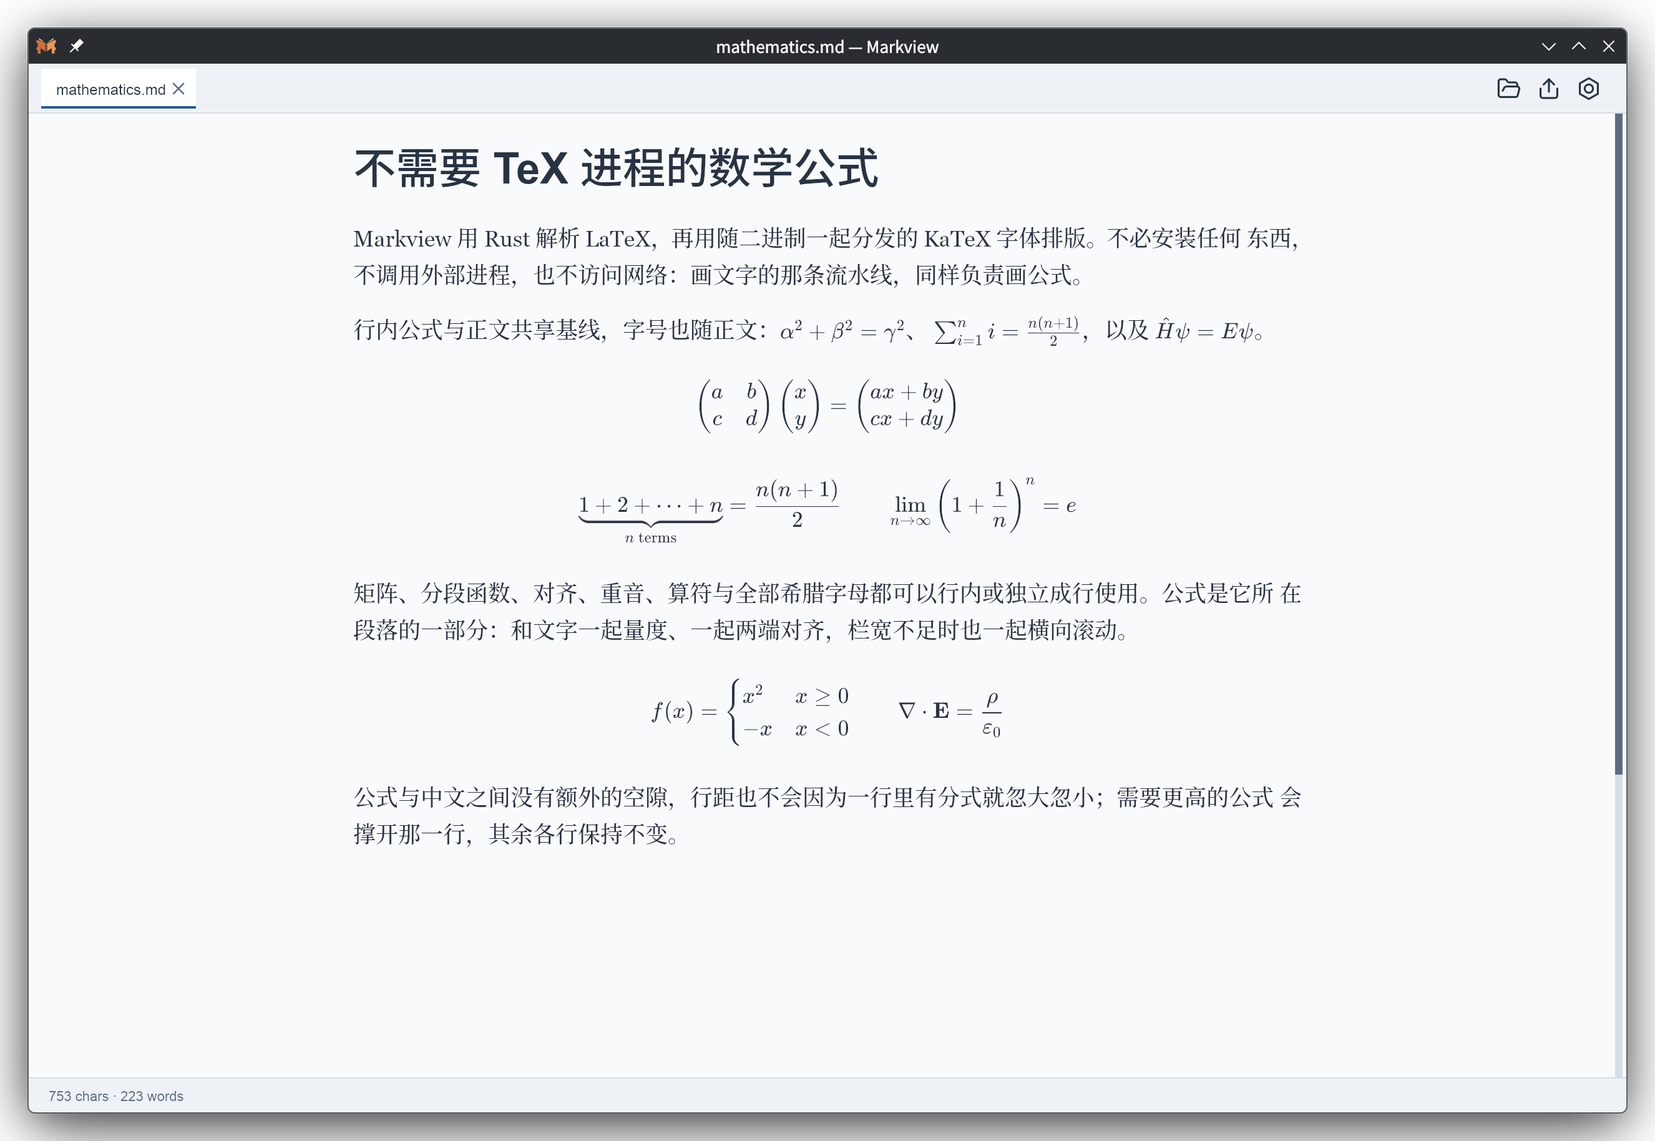
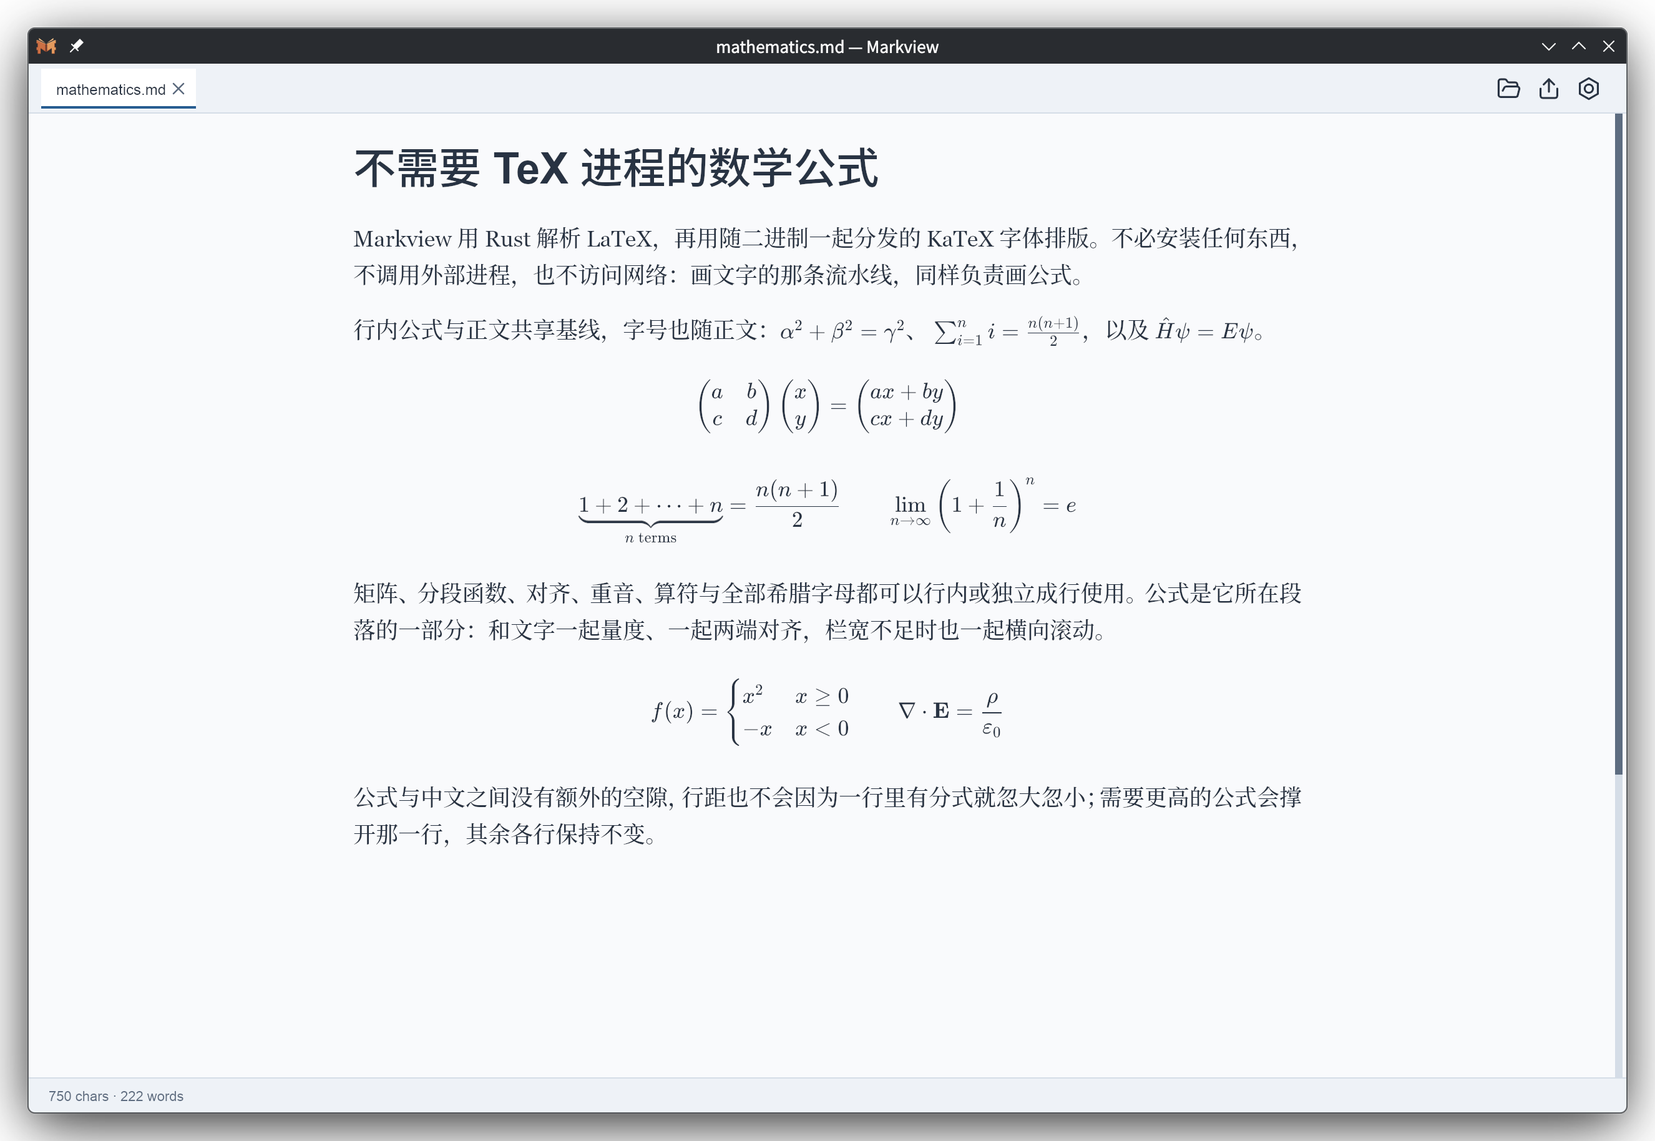
docs: remove spaces from Chinese prose

diff --git a/docs/screenshots/source/zh/typography.md b/docs/screenshots/source/zh/typography.md
@@ -1,12 +1,8 @@
 # 让中文排版回到该有的样子
 
-好的排版不该被读到，读者只应看到文字。Markview 以整段为单位求解断行：不是逐行贪心
-填充，而是权衡整段的词间距，让每一行都同样舒展。较长的西文单词会在合适的位置断字，
-中文标点则遵守各自的行首行尾规则——开括号「（《不会孤零零地落在行尾，句号、逗号和
-右括号也不会挤到下一行的开头。
+好的排版不该被读到，读者只应看到文字。Markview 以整段为单位求解断行：不是逐行贪心填充，而是权衡整段的词间距，让每一行都同样舒展。较长的西文单词会在合适的位置断字，中文标点则遵守各自的行首行尾规则——开括号「（《不会孤零零地落在行尾，句号、逗号和右括号也不会挤到下一行的开头。
 
-行内公式 $E = mc^2$ 与正文共享基线，而 $\frac{a+b}{\sqrt{x_1^2+x_2^2}}$ 只在必要时
-撑高这一行。汉字与拉丁字母之间留有自然的间隙，**粗体**与*斜体*紧贴中文也能正确闭合。
+行内公式 $E = mc^2$ 与正文共享基线，而 $\frac{a+b}{\sqrt{x_1^2+x_2^2}}$ 只在必要时撑高这一行。汉字与拉丁字母之间留有自然的间隙，**粗体**与*斜体*紧贴中文也能正确闭合。
 
 $$
 \int_{-\infty}^{\infty} e^{-x^2}\,dx = \sqrt{\pi}
@@ -14,9 +10,6 @@ $$
 
 > 版式的目的是让阅读变得轻松。读者应当忘记页面，只记住文字。
 
-标点与间隙只是细节，整段的均匀才是阅读舒适的关键。Markview 在整段范围内分配每一行的
-松紧：有的行略微收紧，有的行略微放松，右边界因此整齐，而不会出现一道忽宽忽窄的白缝。
+标点与间隙只是细节，整段的均匀才是阅读舒适的关键。Markview 在整段范围内分配每一行的松紧：有的行略微收紧，有的行略微放松，右边界因此整齐，而不会出现一道忽宽忽窄的白缝。
 
-简体、繁体与日文各有各的标点惯例：逗号一类的符号在中国大陆和日本会让出半个字宽，
-在台湾则居中排布。`SC`、`TC`、`JP` 三种约定各有自己的字体与标点规则，切换之后整篇
-文档重新排版。
+简体、繁体与日文各有各的标点惯例：逗号一类的符号在中国大陆和日本会让出半个字宽，在台湾则居中排布。`SC`、`TC`、`JP` 三种约定各有自己的字体与标点规则，切换之后整篇文档重新排版。

diff --git a/docs/screenshots/source/zh/mathematics.md b/docs/screenshots/source/zh/mathematics.md
@@ -1,7 +1,6 @@
 # 不需要 TeX 进程的数学公式
 
-Markview 用 Rust 解析 LaTeX，再用随二进制一起分发的 KaTeX 字体排版。不必安装任何
-东西，不调用外部进程，也不访问网络：画文字的那条流水线，同样负责画公式。
+Markview 用 Rust 解析 LaTeX，再用随二进制一起分发的 KaTeX 字体排版。不必安装任何东西，不调用外部进程，也不访问网络：画文字的那条流水线，同样负责画公式。
 
 行内公式与正文共享基线，字号也随正文：$\alpha^2 + \beta^2 = \gamma^2$、
 $\sum_{i=1}^{n} i = \frac{n(n+1)}{2}$，以及 $\hat{H}\psi = E\psi$。
@@ -18,8 +17,7 @@ $$
 \lim_{n \to \infty} \left(1 + \frac{1}{n}\right)^n = e
 $$
 
-矩阵、分段函数、对齐、重音、算符与全部希腊字母都可以行内或独立成行使用。公式是它所
-在段落的一部分：和文字一起量度、一起两端对齐，栏宽不足时也一起横向滚动。
+矩阵、分段函数、对齐、重音、算符与全部希腊字母都可以行内或独立成行使用。公式是它所在段落的一部分：和文字一起量度、一起两端对齐，栏宽不足时也一起横向滚动。
 
 $$
 f(x) = \begin{cases}
@@ -30,5 +28,4 @@ f(x) = \begin{cases}
 \nabla \cdot \mathbf{E} = \frac{\rho}{\varepsilon_0}
 $$
 
-公式与中文之间没有额外的空隙，行距也不会因为一行里有分式就忽大忽小；需要更高的公式
-会撑开那一行，其余各行保持不变。
+公式与中文之间没有额外的空隙，行距也不会因为一行里有分式就忽大忽小；需要更高的公式会撑开那一行，其余各行保持不变。

diff --git a/docs/screenshots/source/zh/structure.md b/docs/screenshots/source/zh/structure.md
@@ -1,7 +1,6 @@
 # 结构化阅读
 
-Markview 不只处理正文。表格保留对齐方式，任务列表依然易读，代码块带语法高亮，
-一切可以点击的东西都真的可以点。
+Markview 不只处理正文。表格保留对齐方式，任务列表依然易读，代码块带语法高亮，一切可以点击的东西都真的可以点。
 
 | 内容 | 写法 | 阅读时的表现 |
 |:--|:--:|--:|
@@ -24,5 +23,4 @@ fn read_document(path: &Path) -> Result<Document> {
 ```
 
 > [!NOTE]
-> 在外部编辑器里修改文件即可。Markview 会监视文件并原地重绘；除非你已经滚到底部，
-> 否则阅读位置保持不变。
+> 在外部编辑器里修改文件即可。Markview 会监视文件并原地重绘；除非你已经滚到底部，否则阅读位置保持不变。

diff --git a/CHANGELOG.md b/CHANGELOG.md
@@ -13,6 +13,8 @@ at the same level, without `[brackets]`.
 
 ## Unreleased
 
+- Remove soft line breaks from Chinese Markdown prose to avoid inserting spaces.
+
 ## 0.1.4 - 2026-09-19
 
 This release adds stylesheet discovery and validation, expands theme and typography support, and improves reader previews.
